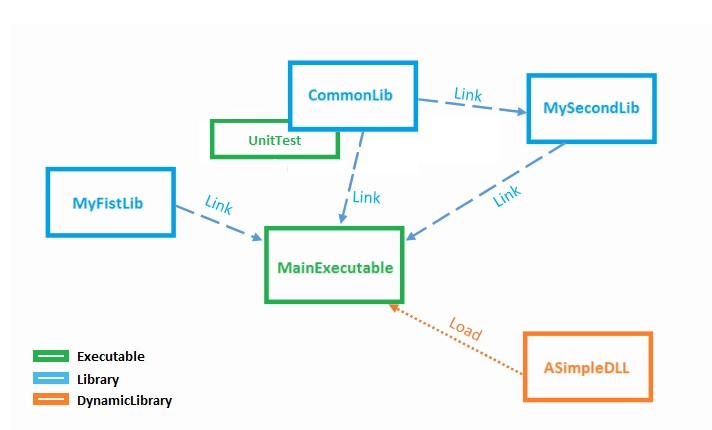
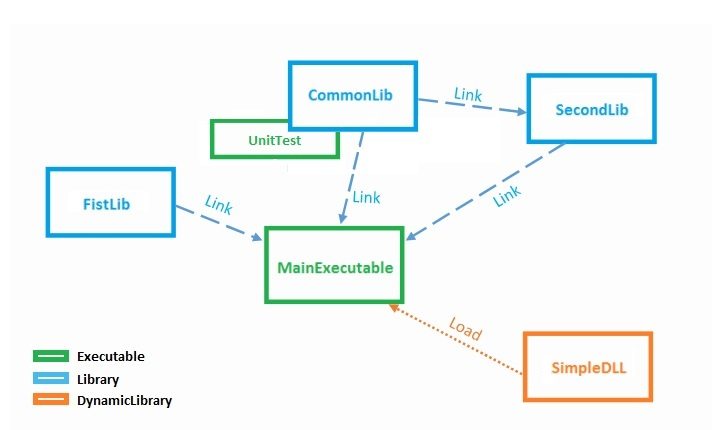
Added FullSoluton Examples (tested only on Windows for the moment)

Changed region(s): [[0.7416, 0.8163, 0.8961, 0.8767], [0.7416, 0.2116, 0.8961, 0.2721], [0.0927, 0.4535, 0.2163, 0.514]]

diff --git a/Examples/FullSolution/MainExecutable/main.cpp b/Examples/FullSolution/MainExecutable/main.cpp
@@ -1,6 +1,6 @@
 
-#include "../MyFirstLib/FirstHello.h"
-#include "../MySecondLib/SecondHello.h"
+#include "../FirstLib/FirstHello.h"
+#include "../SecondLib/SecondHello.h"
 #include "../CommonLib/DLLHelper.h"
 
 int main(int argc, char ** args) {
